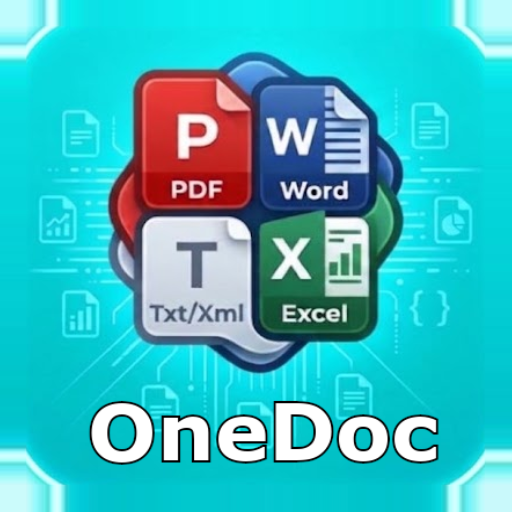
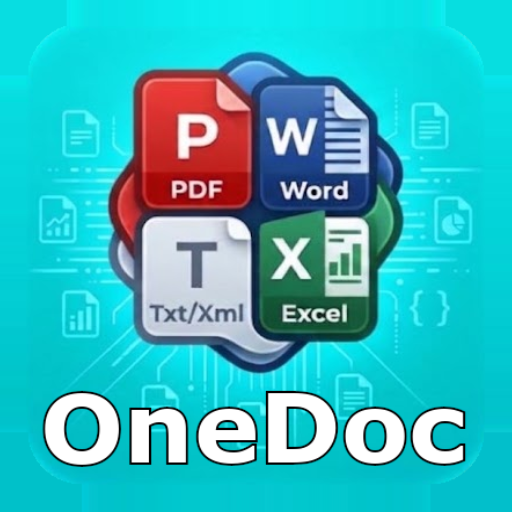
Иконка OneDoc с крупной надписью: плитка 56 dp, очищенные углы
- Исходник — art/onedoci.png (прежний onedocicon.png удалён).
- Плитка 56 dp из 108: широкая надпись «OneDoc» помещается и в круглую маску.
- Скругления и свечение в углах плитки заливаются цветом фона, вокруг —
  продолжение её краёв, без светлых полос.
- Иконка для Play и монохромный слой пересозданы.
- NEXT_STEPS.md, PROJECT_STATUS.md: описание иконки.

Changed region(s): [[0.0, 0.75, 1.0, 1.0], [0.875, 0.0, 1.0, 0.125], [0.0, 0.0, 0.125, 0.125]]

diff --git a/NEXT_STEPS.md b/NEXT_STEPS.md
@@ -134,11 +134,11 @@
    - `FileProvider` (`${applicationId}.files`) подстроился сам. Внутренние имена (`DocFlowApp`, `docflow.db`, теги логов `DocFlow*`) не менялись: пользователю они не видны.
    - Проверено: сборка, 138 юнит-тестов, lint, release с R8 (в `mapping.txt` 0 классов сменили пакет), инструментальные тесты 11/11 на API 37 и API 26.
    - На эмуляторах новое приложение стоит рядом со старым `io.doccraftstudio.onedoc` (старое не удалялось).
-3. ~~Иконка приложения~~ — выполнено 25.10.2026, 26.10.2026 заменена на новый рисунок пользователя `art/onedocicon.png` (512×512: готовая бирюзовая плитка со скруглением и свечением по краю, в центре листки PDF, Word, Txt/Xml, Excel, внизу надпись «OneDoc»). Прежние рисунки `OneDoc_icon.png` и промежуточный `onedoc.png` (та же плитка без надписи) удалены.
-   - Адаптивная: фон — цвет плитки `#03CCD3` (`values/ic_launcher_background.xml`); foreground — внутренняя часть плитки без свечения (из исходника вырезан прямоугольник 58,50–456,462), — 62 dp из 108 по центру: надпись «OneDoc» у нижнего края плитки целиком помещается даже в круглую маску (при 72 dp её срезало). Снаружи плитки до краёв маски — повтор её крайних пикселей, поэтому шва нет; скругление и свечение исходника отброшены, углы скругляет лаунчер; белых полей нет.
+3. ~~Иконка приложения~~ — выполнено 25.10.2026, 26.10.2026 заменена на рисунок пользователя `art/onedoci.png` (512×512: готовая бирюзовая плитка со скруглением и свечением по краю, в центре листки PDF, Word, Txt/Xml, Excel, внизу крупная надпись «OneDoc» почти во всю ширину). Прежние варианты (`OneDoc_icon.png`, `onedoc.png` без надписи, `onedocicon.png` с мелкой надписью) удалены.
+   - Адаптивная: фон — цвет плитки `#03CCD3` (`values/ic_launcher_background.xml`); foreground — внутренняя часть плитки без свечения (из исходника вырезан прямоугольник 58,50–456,462), — 56 dp из 108 по центру: широкая надпись «OneDoc» у нижнего края плитки целиком помещается даже в круглую маску (при 62 dp круг срезал «O» и «c»). Углы плитки за дугой скругления (свечение) заливаются цветом фона с соседних прямых участков края, снаружи плитки до краёв маски — повтор её крайних пикселей, поэтому шва нет; углы скругляет лаунчер; белых полей нет. Остаётся лёгкая светлая подсветка вдоль краёв — она есть в самом рисунке.
    - Monochrome — силуэт листков: пиксели, далёкие от бирюзового фона и не светлые; белые буквы — «дырки», поэтому P, W, T, X читаются.
    - Шаблонные `drawable/ic_launcher_*.xml` и `mipmap-*/ic_launcher*.webp` удалены: при minSdk 26 всегда используется адаптивная иконка из `mipmap-anydpi/`.
-   - Иконка для Play — `art/play_icon_512.png`: та же внутренняя часть плитки на 90 % квадрата, снаружи — продолжение её краёв; Play сам скругляет углы.
+   - Иконка для Play — `art/play_icon_512.png`: та же очищенная плитка на 90 % квадрата, снаружи — продолжение её краёв; Play сам скругляет углы.
    - Новая иконка поставлена на телефон пользователя по его просьбе; на эмуляторах не проверялась. Эмуляторы проверялись с первой версией (лаунчер API 37 и API 26, тематическая иконка на API 37 — стиль значков «Minimal» в «Обои и стиль», работает только на главном экране).
    - Слои нарезала разовая программа на Java (`TileIconGen.java`, в репозиторий не добавлена); при смене рисунка нужно нарезать заново.
    - На листках буквы W и X в синем и зелёном квадратах похожи на значки Microsoft Word и Excel — перед публикацией стоит учесть правила Google Play об имитации чужих брендов.

diff --git a/PROJECT_STATUS.md b/PROJECT_STATUS.md
@@ -180,7 +180,7 @@
   - ~~пакет~~ — `io.doccraftstudio.onedoc` (`applicationId`, `namespace`, исходники); до этого был `com.example.fileopener`;
   - ~~название~~ — OneDoc (раньше рабочее «DocFlow Reader»);
   - ~~резервное копирование~~ — только настройки (DataStore и выбор языка), без базы и копий вложений;
-  - ~~иконка~~ — адаптивная по рисунку `art/onedocicon.png` (бирюзовая плитка с надписью «OneDoc»), с монохромным слоем; иконка для Play — `art/play_icon_512.png`;
+  - ~~иконка~~ — адаптивная по рисунку `art/onedoci.png` (бирюзовая плитка с надписью «OneDoc»), с монохромным слоем; иконка для Play — `art/play_icon_512.png`;
   - нет ключа подписи release и сборки AAB;
   - нет политики конфиденциальности и описания доступа к данным;
   - `versionCode = 1`, `versionName = "1.0"`.
